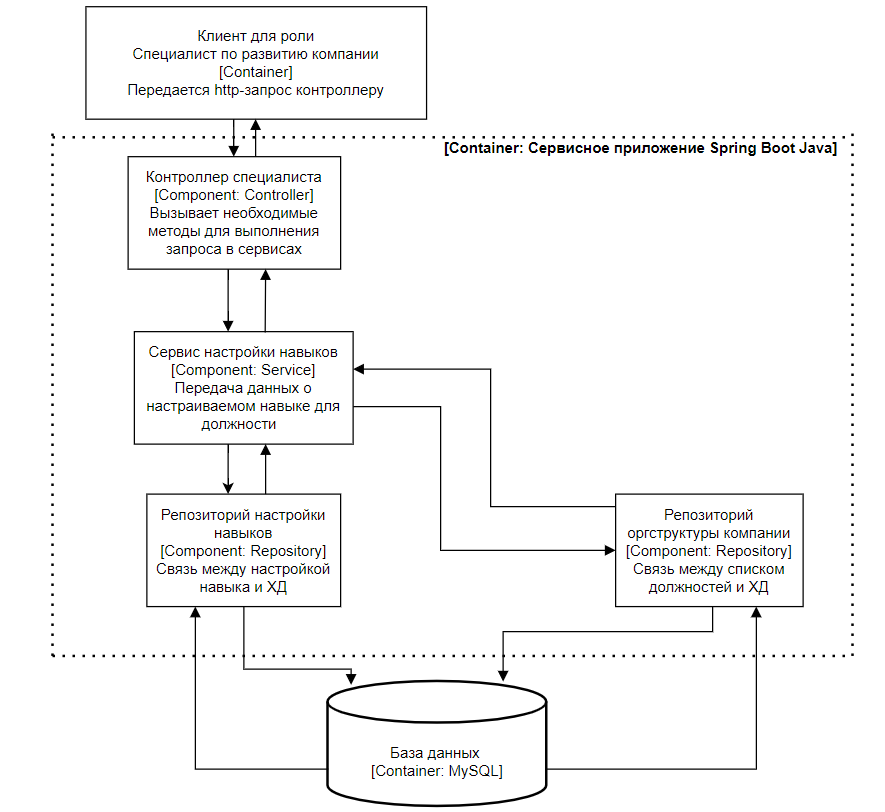
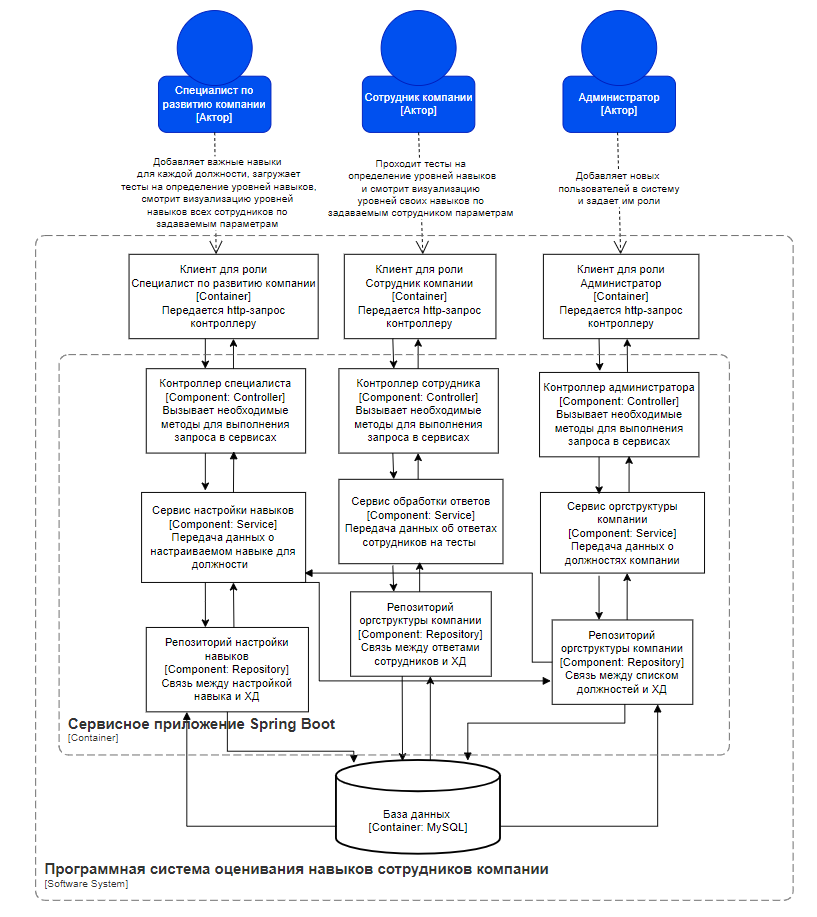
Обновил диаграмму компонентов + добавил пояснения к диаграмме классов

diff --git a/LabWork3/docs/README.md b/LabWork3/docs/README.md
@@ -5,6 +5,9 @@
 ![image](https://github.com/nikrykov/PAPS/blob/LabWork3/LabWork3/sequences-diag.PNG?raw=true)
 
 ### 3. Модель БД в виде диаграммы классов
+Предполагается, что Навыки, Должности и Типы измерений навыков это справочники. В этой работе планируется работать с 2 типами измерений - количественным и качественным. Также предполагается, что навыки для разных должностей
+могут измеряться по-разному. Отношение "Диапазон значений измерения навыка" относится к навыкам которые измеряются как количественные. Им задается диапазон возможных значений из чисел.
+Отношение "Значения измерения навыка" относится к навыкам, которые измеряются как качественный. Здесь значениями могут выступать строки. Например: "хорошо", "отлично".
 ![image](https://github.com/nikrykov/PAPS/blob/LabWork3/LabWork3/class-diag.PNG?raw=true)
 
 ### 4. Описание использованных принципов разработки
